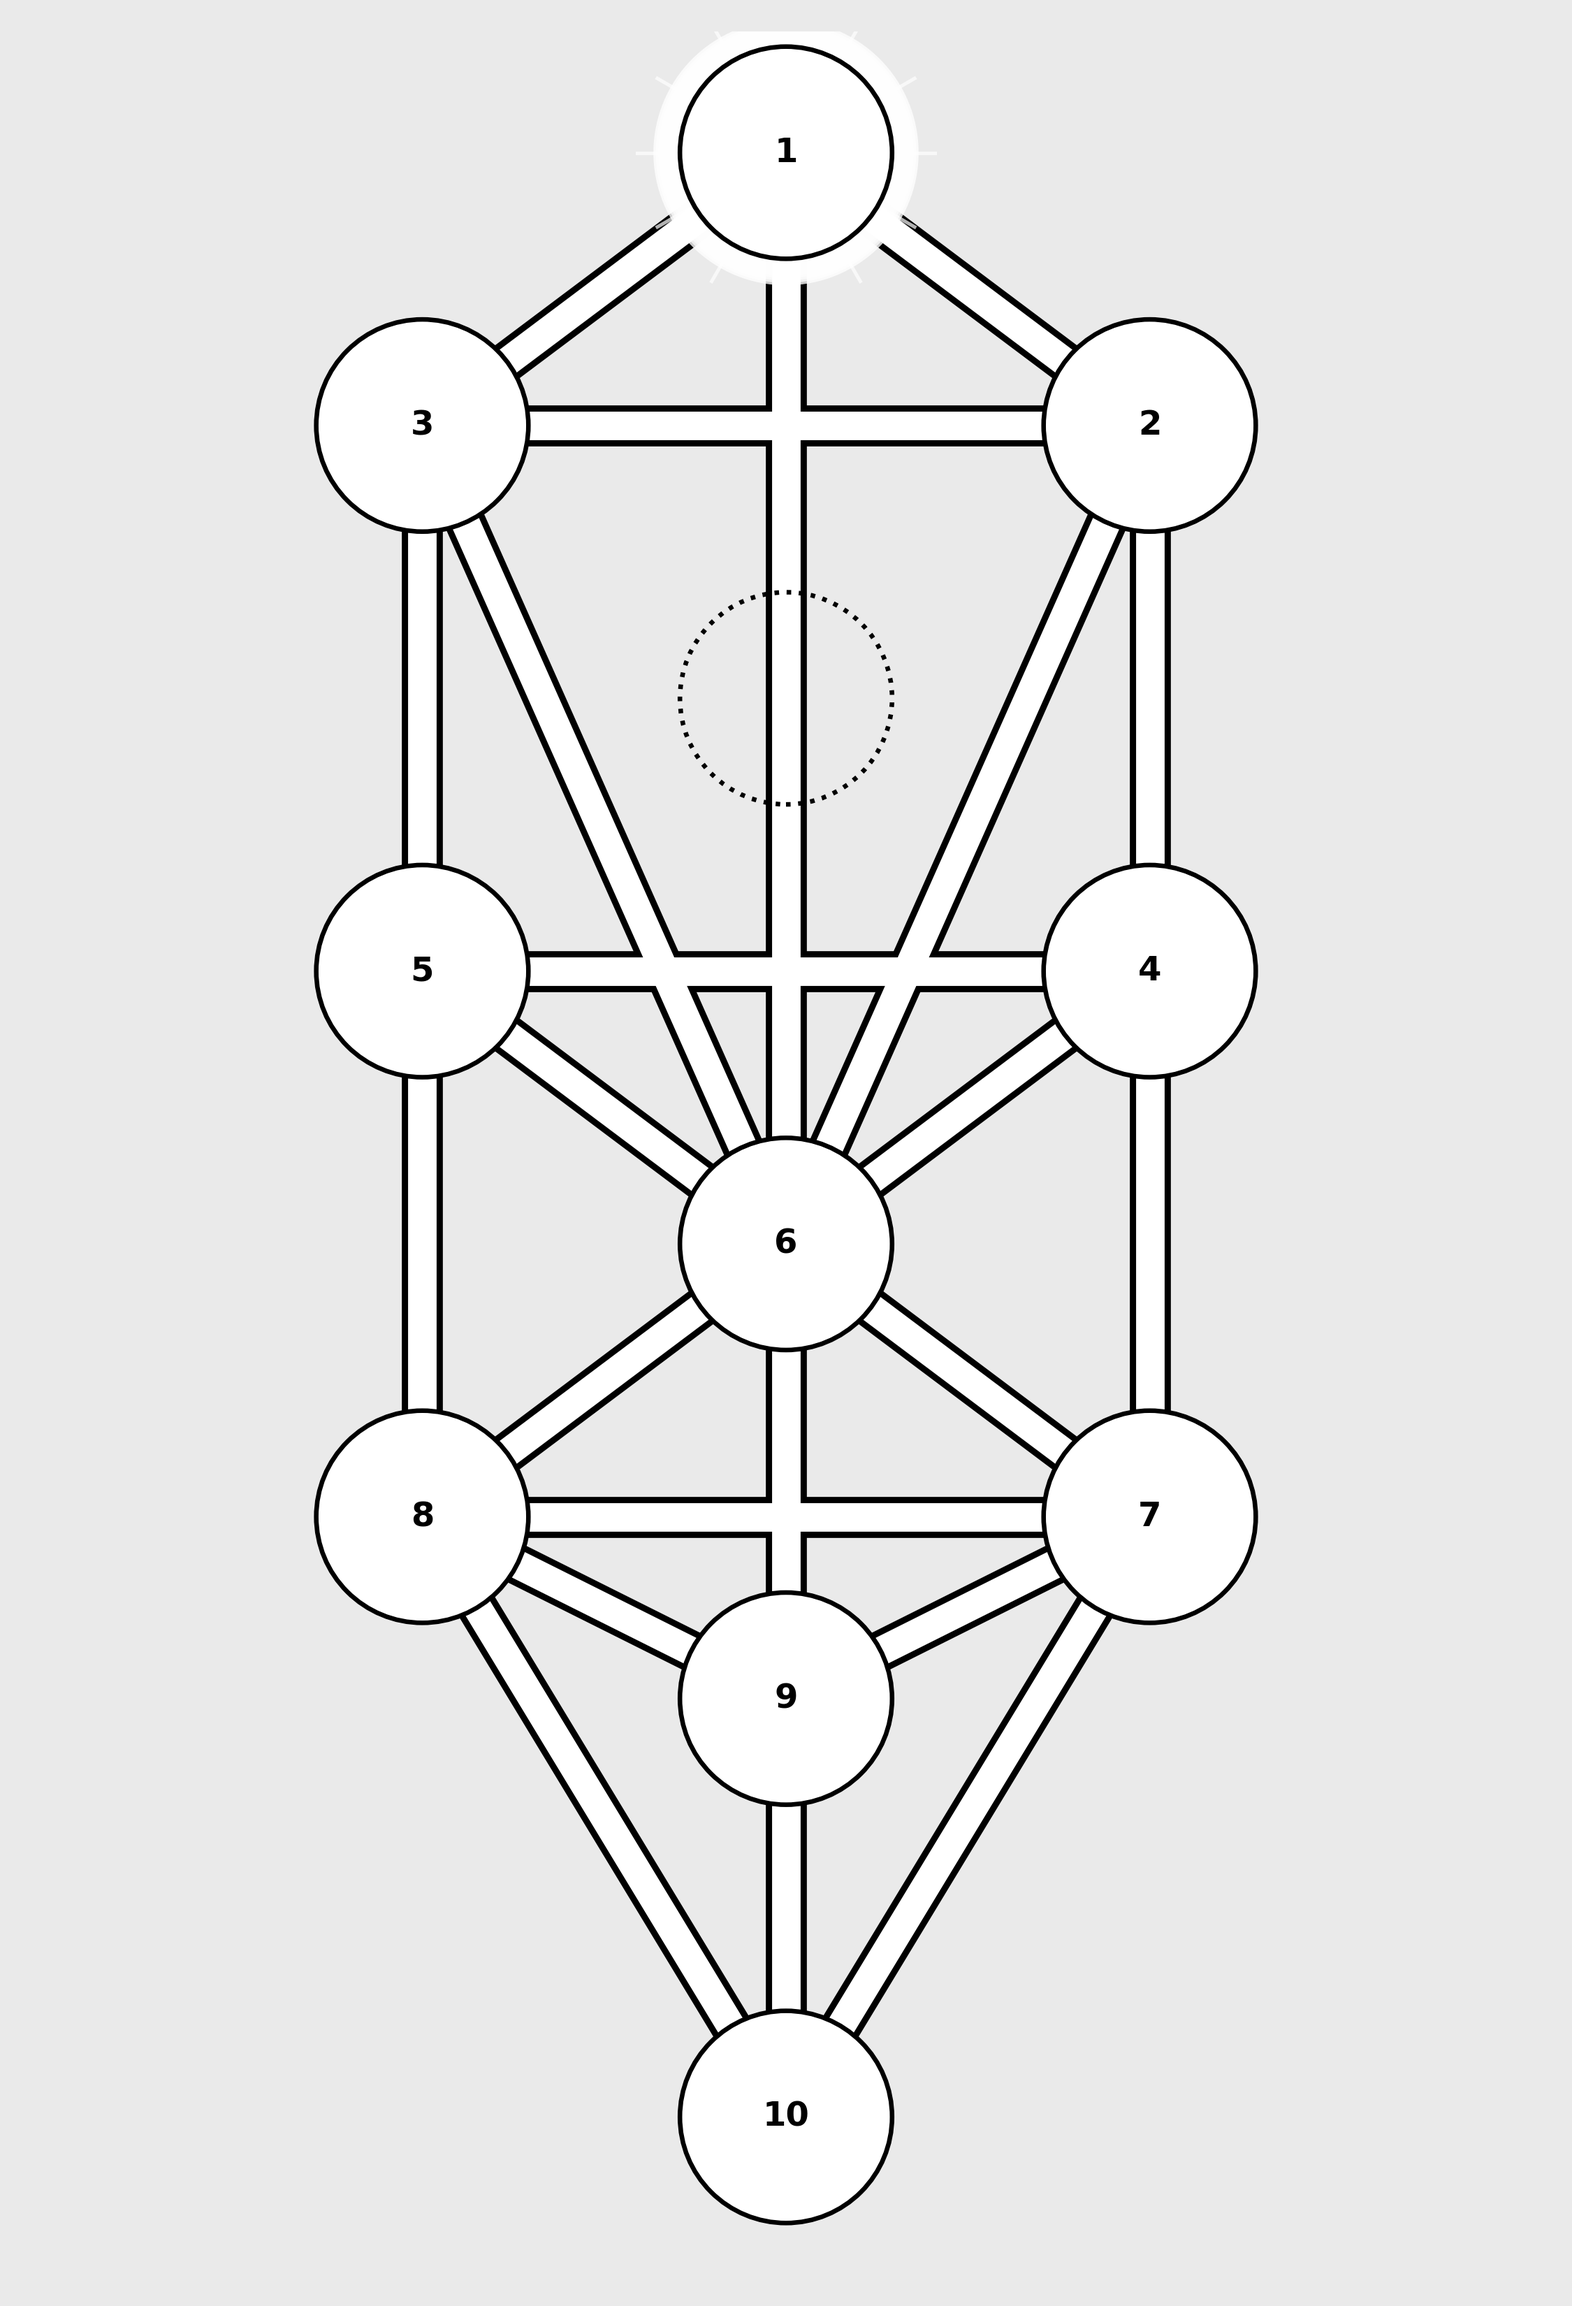
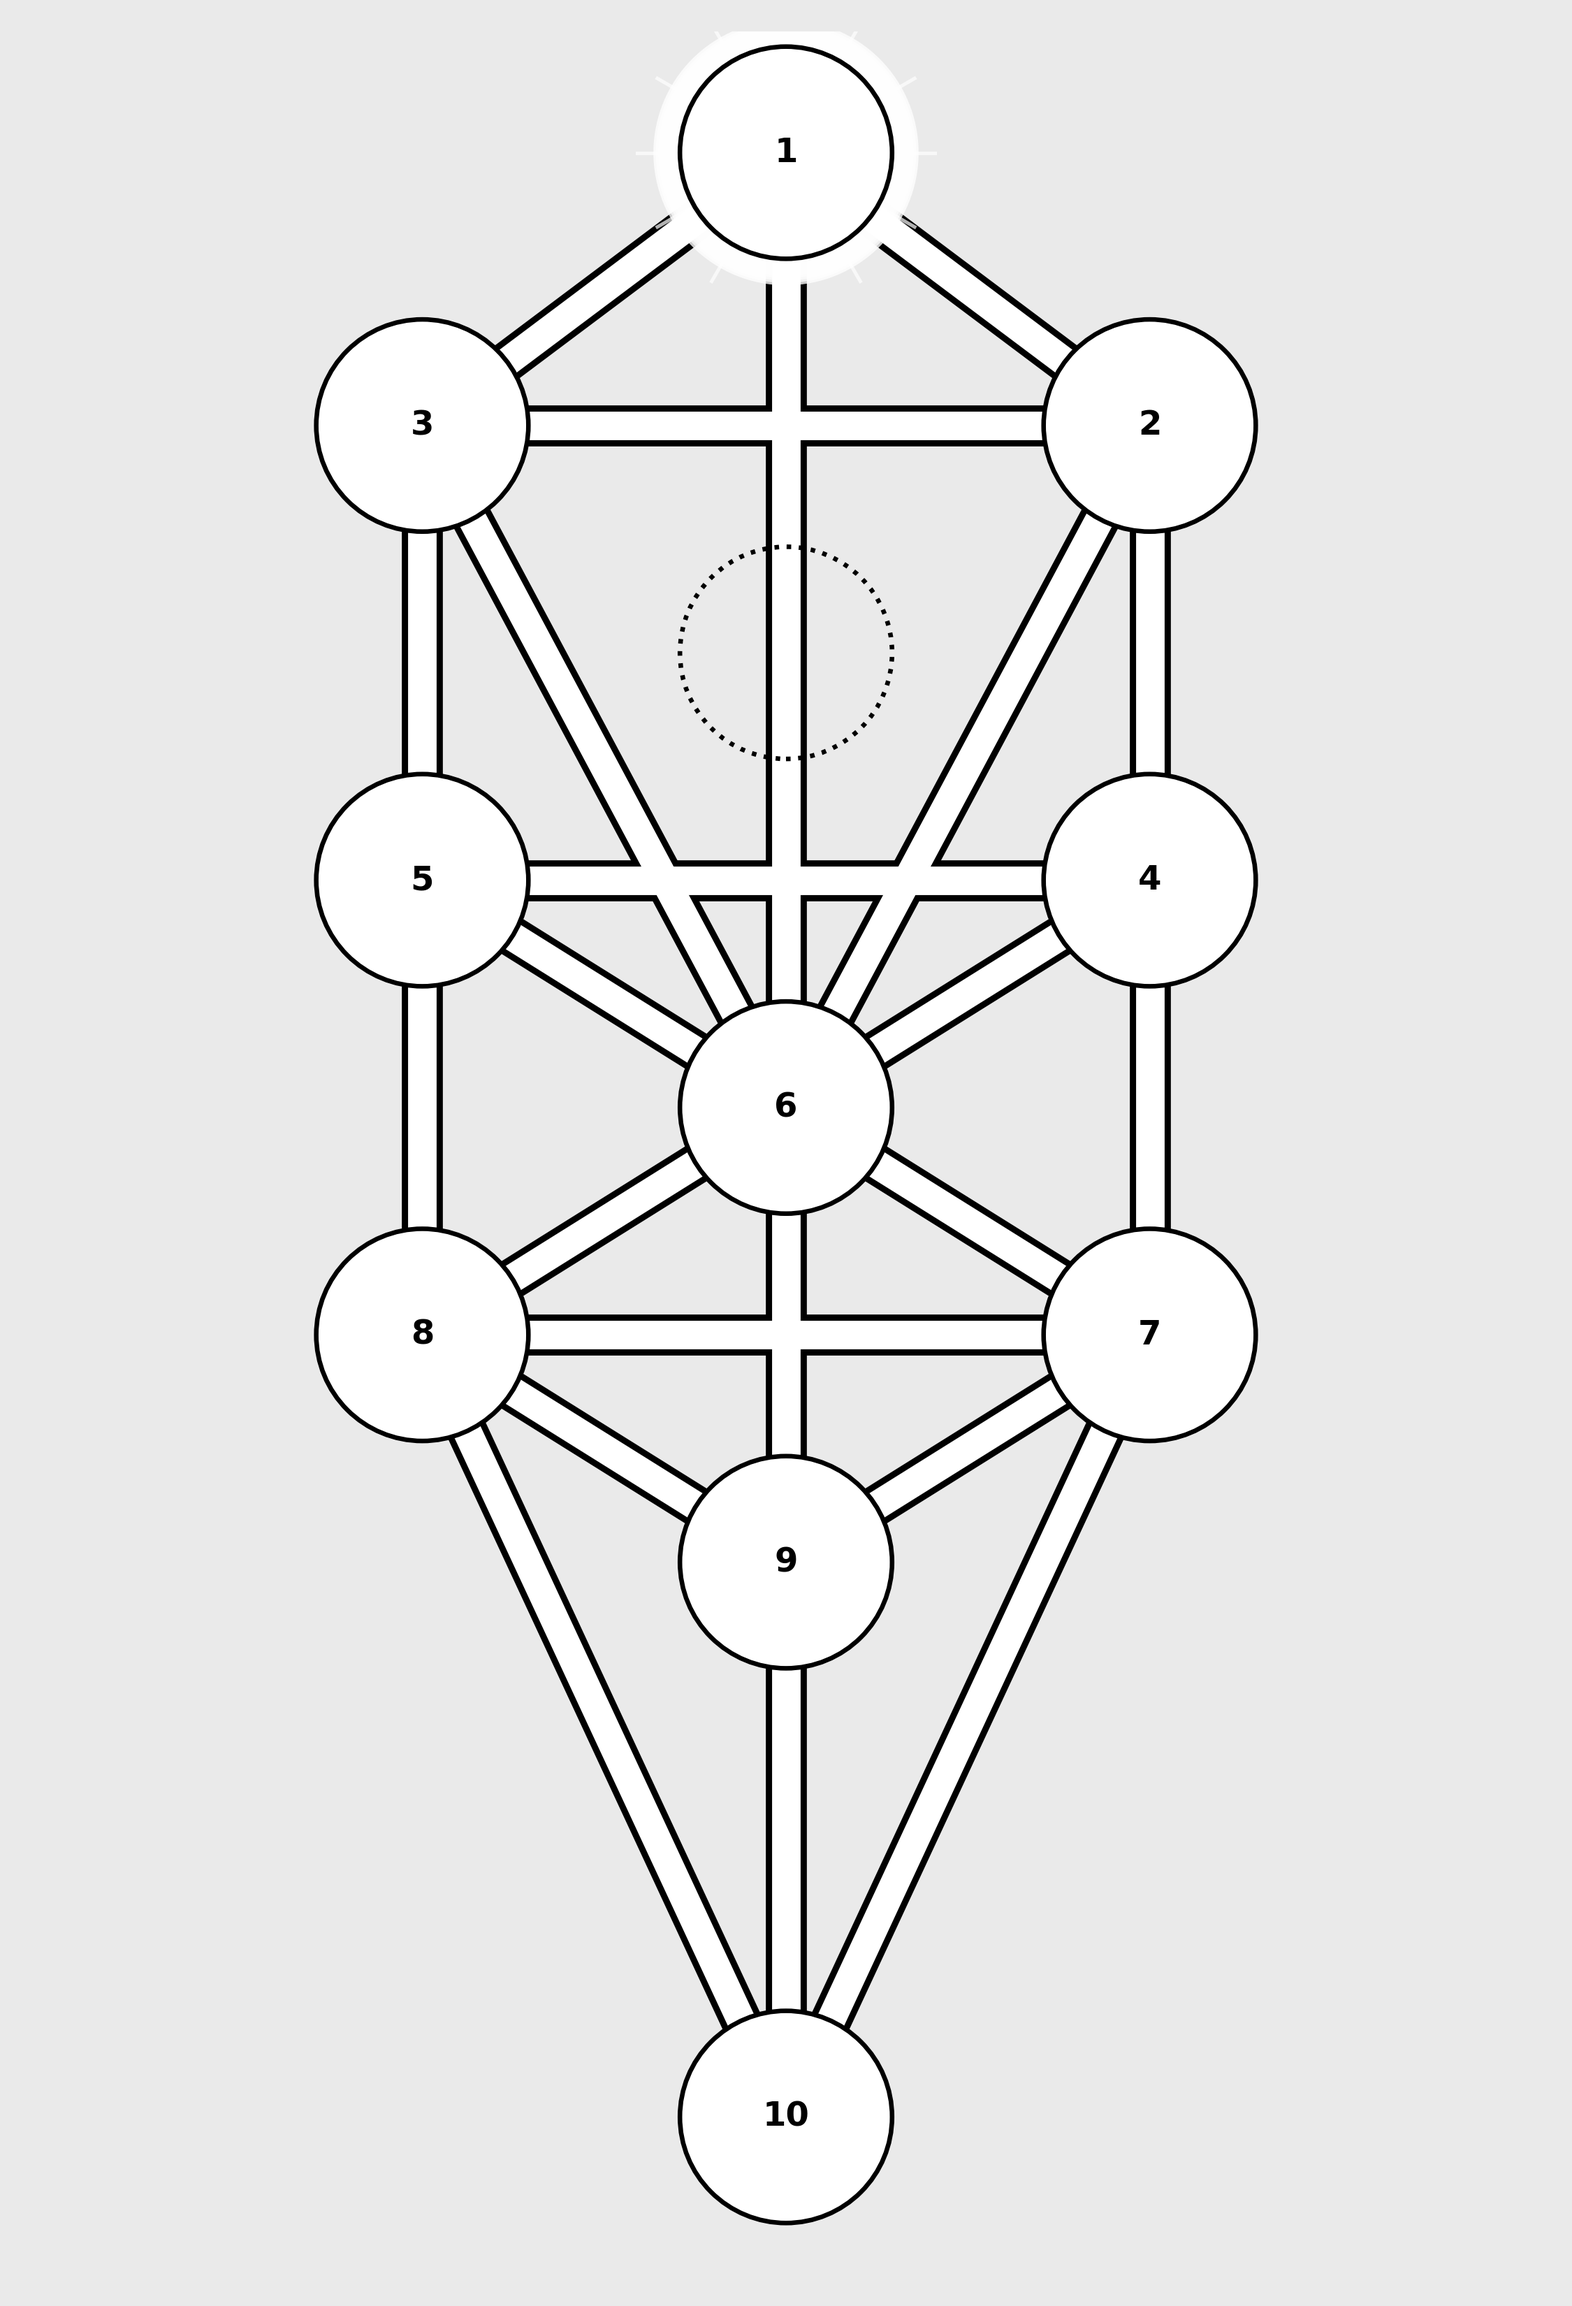
refactor: adjust Sephirot positions for geometric balance in Tree of Life

diff --git a/new_tree.py b/new_tree.py
@@ -40,24 +40,24 @@ def draw_tree_of_life(output_filename: str = None) -> None:
         (2.0 * spacing_factor, 8.0 * spacing_factor + vertical_shift),
         # 2: Binah (Top left) - shifted down
         (-2.0 * spacing_factor, 8.0 * spacing_factor + vertical_shift),
-        # 3: Chesed (Mid right) - shifted down
-        (2.0 * spacing_factor, 5.0 * spacing_factor + vertical_shift),
-        # 4: Geburah (Mid left) - shifted down
-        (-2.0 * spacing_factor, 5.0 * spacing_factor + vertical_shift),
-        # 5: Tiphereth (Center) - shifted down
-        (0 * spacing_factor, 3.5 * spacing_factor + vertical_shift),
-        # 6: Netzach (Bottom right) - shifted down
-        (2.0 * spacing_factor, 2.0 * spacing_factor + vertical_shift),
-        # 7: Hod (Bottom left) - shifted down
-        (-2.0 * spacing_factor, 2.0 * spacing_factor + vertical_shift),
-        # 8: Yesod (Bottom center) - shifted down
-        (0 * spacing_factor, 1.0 * spacing_factor + vertical_shift),
+        # 3: Chesed (Mid right) - adjusted to make Chokmah-Chesed path equal to Kether-Chokmah path
+        (2.0 * spacing_factor, 5.5 * spacing_factor + vertical_shift),
+        # 4: Geburah (Mid left) - adjusted to make Binah-Geburah path equal to Kether-Binah path
+        (-2.0 * spacing_factor, 5.5 * spacing_factor + vertical_shift),
+        # 5: Tiphereth (Center) - exact geometric center of Chesed, Geburah, Netzach, Hod
+        (0 * spacing_factor, 4.25 * spacing_factor + vertical_shift),
+        # 6: Netzach (Bottom right) - adjusted to make Chesed-Netzach path equal to Chokmah-Chesed path
+        (2.0 * spacing_factor, 3.0 * spacing_factor + vertical_shift),
+        # 7: Hod (Bottom left) - adjusted to make Geburah-Hod path equal to Binah-Geburah path
+        (-2.0 * spacing_factor, 3.0 * spacing_factor + vertical_shift),
+        # 8: Yesod (Bottom center) - adjusted to make Tiphareth-Yesod distance equal to Tiphareth-Da'ath distance
+        (0 * spacing_factor, 1.75 * spacing_factor + vertical_shift),
         # 9: Malkuth (Bottom) - shifted down
         (0 * spacing_factor, -1.3 * spacing_factor + vertical_shift)
     ]
 
-    # Coordinate for the hidden Sephirah, Da'ath - also shifted down
-    daath_coord: Coord = (0 * spacing_factor, 6.5 *
+    # Coordinate for the hidden Sephirah, Da'ath - positioned at the geometric center of Chokmah, Binah, Chesed, and Geburah
+    daath_coord: Coord = (0 * spacing_factor, 6.75 *
                           spacing_factor + vertical_shift)
 
     # 2. Define the Paths connecting the Sephirot
